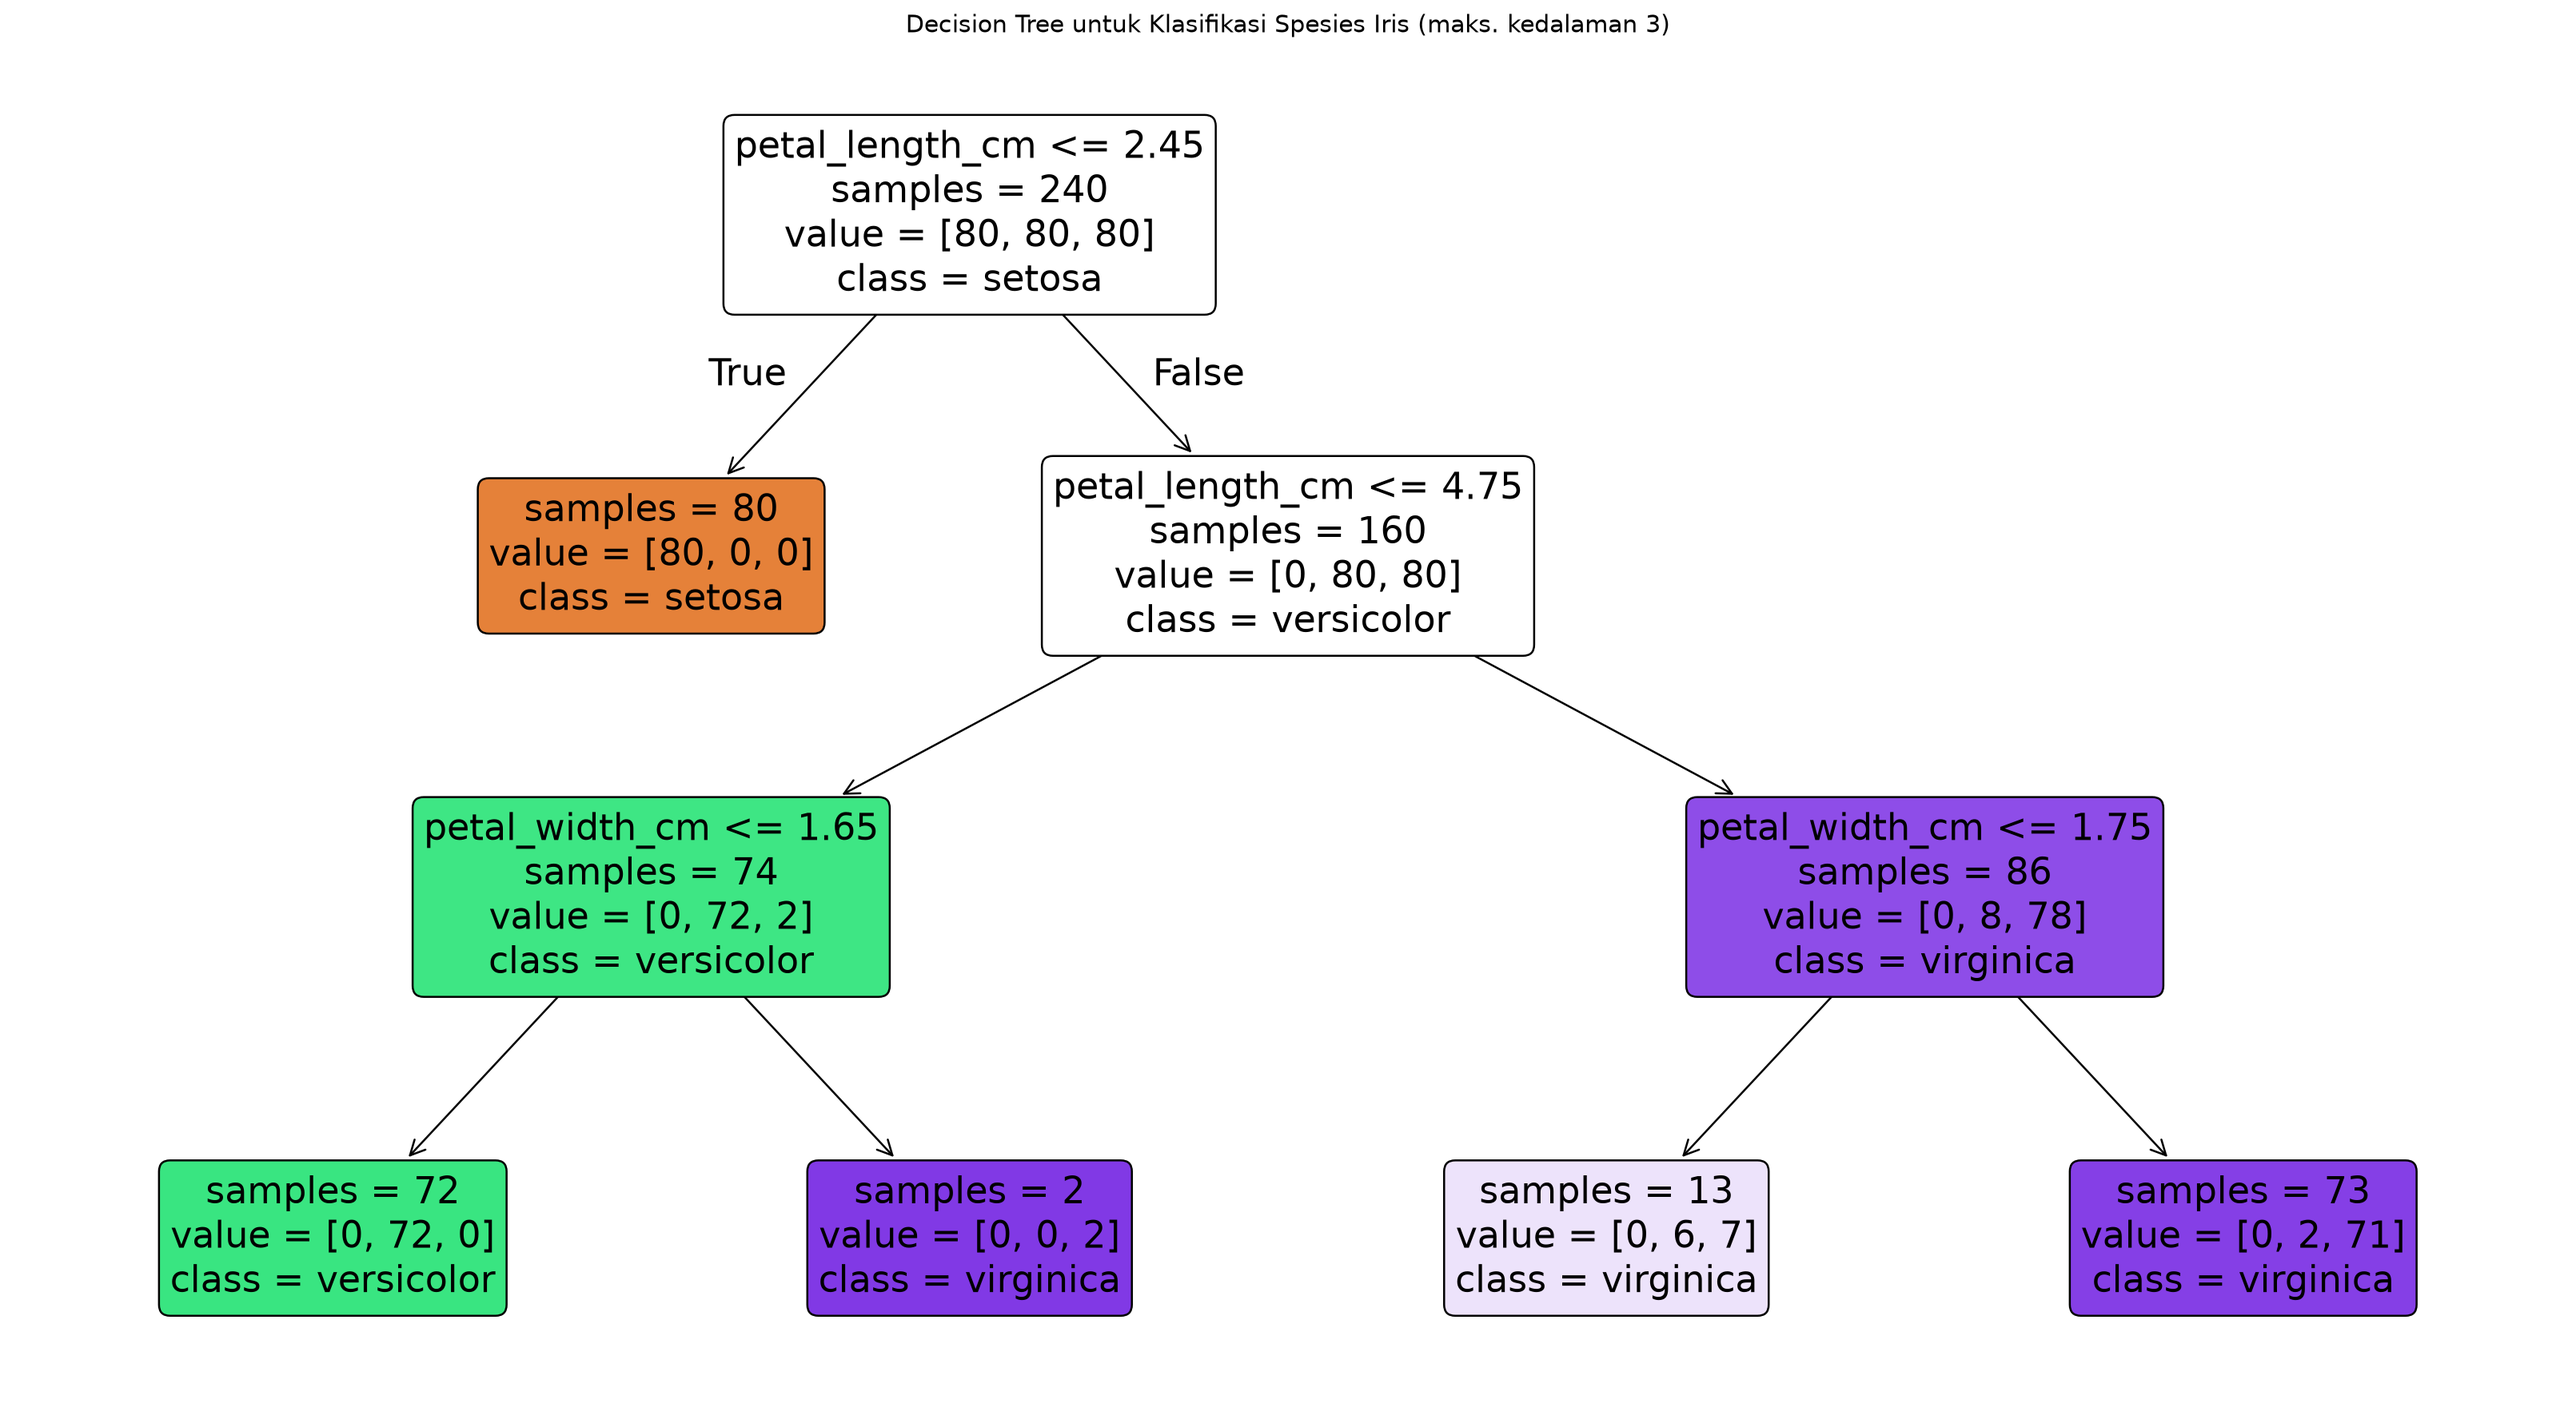
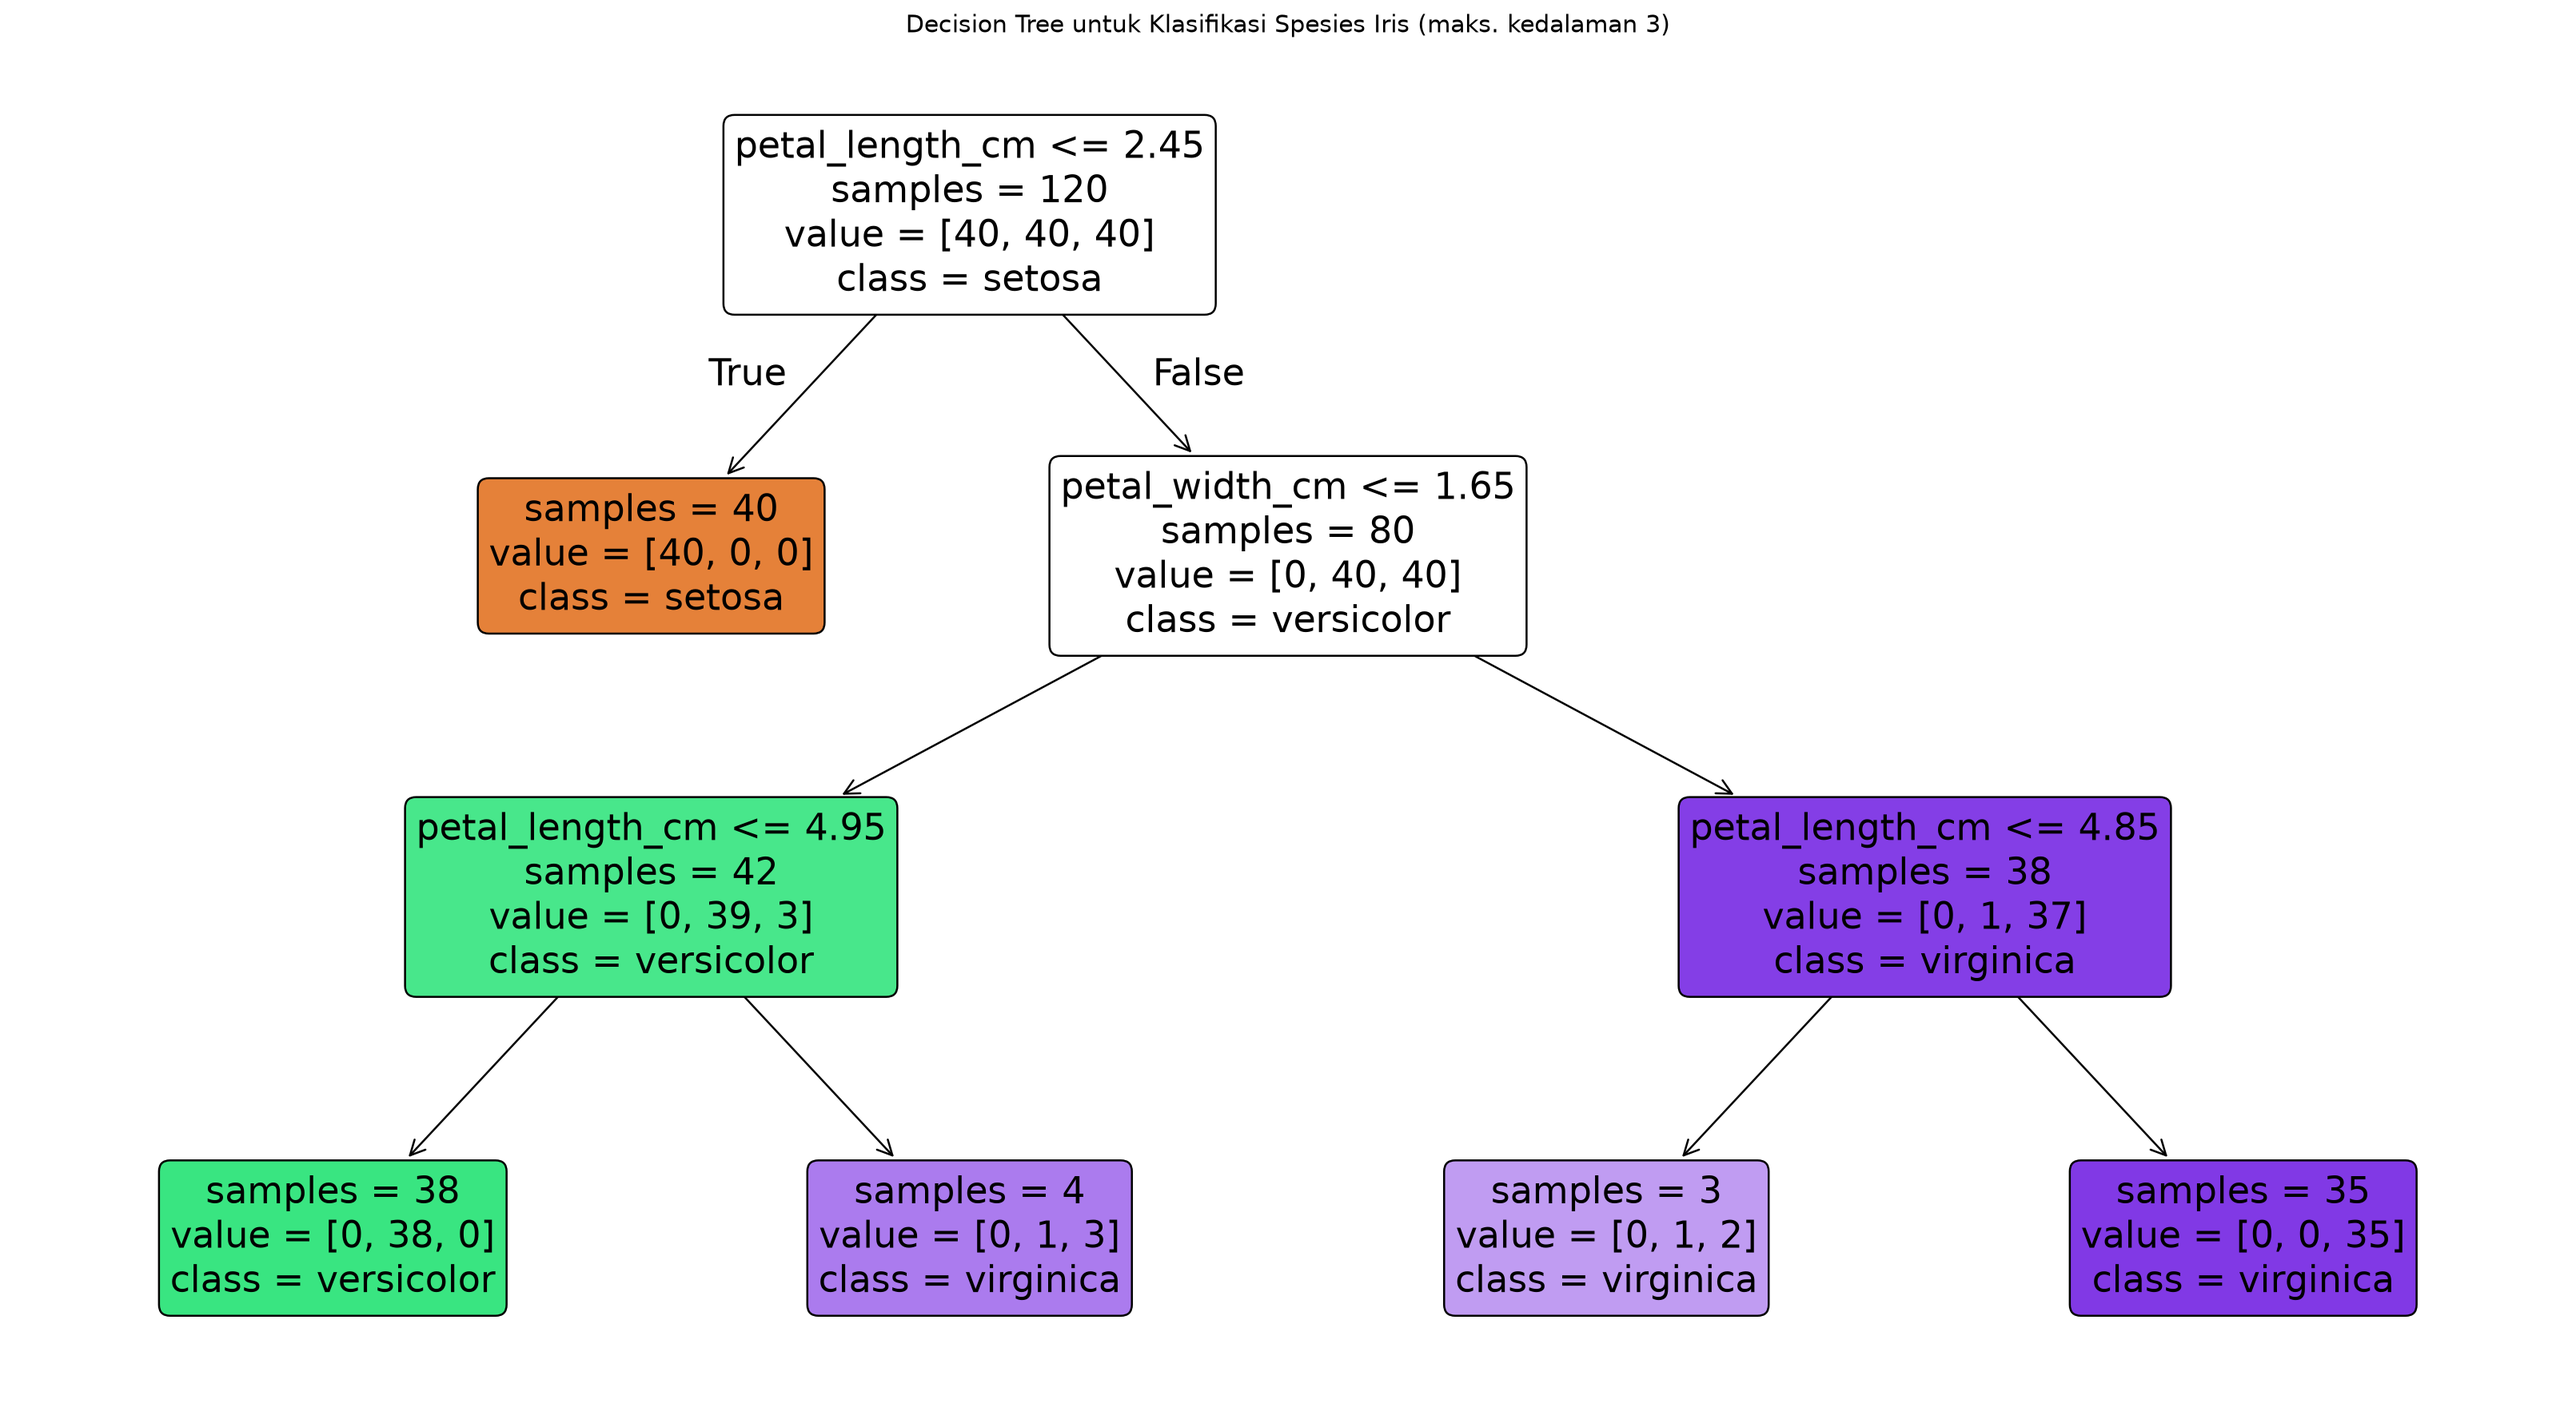
Changes

diff --git a/DatMinPt6.py b/DatMinPt6.py
@@ -9,18 +9,16 @@ import pandas as pd
 from sklearn.tree import DecisionTreeClassifier, plot_tree
 from sklearn.preprocessing import LabelEncoder
 
-# Pandas functions used:
-# pd.read_csv, DataFrame.select_dtypes, DataFrame.isnull, DataFrame.duplicated,
-# DataFrame.value_counts, DataFrame.fillna, DataFrame.astype, Series.eq, Series.sum,
-# DataFrame.groupby, DataFrame.sort_values, DataFrame.head, DataFrame.to_string
-
-
 FOLDER = Path(__file__).resolve().parent
 DATASET_PATH = FOLDER / "Dataset_Pelayanan_Pasien.csv"
 
 
 def main():
     df = pd.read_csv(DATASET_PATH)
+    umur_tahun = pd.to_numeric(
+        df["Umur"].astype("string").str.extract(r"(\d+)\s*thn", expand=False),
+        errors="coerce",
+    )
 
     print("1. RINGKASAN DATASET")
     print(f"Jumlah baris: {len(df)}")
@@ -28,21 +26,26 @@ def main():
     print(df.head().to_string(index=False))
 
     print("\n2. JENIS DATA")
-    numeric_cols = df.select_dtypes(include=[np.number]).columns.tolist()
-    categorical_cols = df.select_dtypes(exclude=[np.number]).columns.tolist()
+    numeric_data = pd.DataFrame({"Umur (tahun)": umur_tahun})
+    numeric_cols = numeric_data.columns.tolist()
+    categorical_cols = sorted(
+        column for column in df.columns if column != "Umur"
+    )
 
     print(f"2.1 Data numerikal ({len(numeric_cols)} kolom):")
     for nomor, col in enumerate(numeric_cols, start=1):
-        print(f"  {nomor}. {col}: {df[col].dtype}")
+        print(f"  {nomor}. {col}: {numeric_data[col].dtype}")
 
     print(f"\n2.2 Data kategorikal ({len(categorical_cols)} kolom):")
     for nomor, col in enumerate(categorical_cols, start=1):
-        print(f"  {nomor}. {col}: {df[col].dtype}")
+        jumlah_kategori = int(df[col].nunique(dropna=True))
+        print(f"  {nomor}. {col}: {jumlah_kategori} nilai unik")
 
     print("\n3. JUMLAH DUPLIKAT, NULL, DAN ZERO")
     duplicate_count = int(df.duplicated().sum())
     null_total = int(df.isnull().sum().sum())
-    zero_total = int(df[numeric_cols].eq(0).sum().sum()) if numeric_cols else 0
+    zero_per_kolom = numeric_data.eq(0).sum().sort_values(ascending=False)
+    zero_total = int(np.count_nonzero(numeric_data.to_numpy() == 0))
 
     print(f"3.1 Jumlah baris duplikat: {duplicate_count}")
     print(f"3.2 Jumlah nilai null: {null_total}")
@@ -50,16 +53,16 @@ def main():
 
     print("\n3.4 Rincian null per kolom:")
     null_per_kolom = df.isnull().sum().sort_values(ascending=False)
+    null_per_kolom = null_per_kolom[null_per_kolom > 0]
     for nomor, (kolom, jumlah) in enumerate(null_per_kolom.items(), start=1):
         print(f"  {nomor}. {kolom}: {jumlah}")
+    if null_per_kolom.empty:
+        print("  Tidak ada nilai null.")
 
     print("\n3.5 Rincian zero per kolom numerikal:")
-    if numeric_cols:
-        zero_detail = df[numeric_cols].eq(0).sum().sort_values(ascending=False)
-        for nomor, (kolom, jumlah) in enumerate(zero_detail.items(), start=1):
-            print(f"  {nomor}. {kolom}: {jumlah}")
-    else:
-        print("  Tidak ada kolom numerikal.")
+    for nomor, (kolom, jumlah) in enumerate(zero_per_kolom.items(), start=1):
+        print(f"  {nomor}. {kolom}: {jumlah}")
+    print("  Catatan: umur 0 tahun berarti usia masih di bawah 1 tahun.")
 
     # Contoh pengkodean kategorikal dengan LabelEncoder dari scikit-learn
     if "Jk" in df.columns:
@@ -69,9 +72,13 @@ def main():
         print(df[["Jk", "Jk_Code"]].head().to_string(index=False))
 
     # Pohon keputusan eksploratif untuk mengklasifikasikan status pasien.
-    kolom_umur = df["Umur"].astype("string").str.extract(r"(\d+)\s*thn")[0]
-    df["Umur_Tahun"] = pd.to_numeric(kolom_umur, errors="coerce")
-    data_pohon = df[["Umur_Tahun", "Jk_Code", "Status Pasien"]].dropna()
+    data_pohon = pd.DataFrame(
+        {
+            "Umur_Tahun": umur_tahun,
+            "Jk_Code": df["Jk_Code"],
+            "Status Pasien": df["Status Pasien"],
+        }
+    ).dropna()
     encoder_status = LabelEncoder()
     target_status = encoder_status.fit_transform(data_pohon["Status Pasien"])
     model_pohon = DecisionTreeClassifier(

diff --git a/Iris.py b/Iris.py
@@ -82,16 +82,68 @@ def muat_dan_bersihkan(path: Path) -> tuple[pd.DataFrame, int]:
     return data, jumlah_dihapus
 
 
+def cetak_ringkasan_kualitas(path: Path) -> None:
+    """Tampilkan klasifikasi kolom dan kualitas data sebelum pembersihan."""
+    data = pd.read_csv(path)
+    kolom_numerikal = data.select_dtypes(include=[np.number]).columns.tolist()
+    kolom_identitas = [
+        kolom
+        for kolom in kolom_numerikal
+        if re.sub(r"[^a-z0-9]", "", str(kolom).lower()) in {"id", "index"}
+    ]
+    kolom_numerikal = sorted(
+        kolom for kolom in kolom_numerikal if kolom not in kolom_identitas
+    )
+    kolom_kategorikal = sorted(
+        data.select_dtypes(exclude=[np.number]).columns.tolist() + kolom_identitas
+    )
+
+    print(f"=== JENIS DATA DAN KUALITAS DATA: {path.name} ===")
+    print(f"Jumlah baris: {len(data)}")
+    print(f"Jumlah kolom: {len(data.columns)}")
+
+    print(f"\nKolom numerikal ({len(kolom_numerikal)}):")
+    for kolom in kolom_numerikal:
+        print(f"  {kolom}: {data[kolom].dtype}")
+
+    print(f"\nKolom kategorikal ({len(kolom_kategorikal)}):")
+    for kolom in kolom_kategorikal:
+        jumlah_unik = int(data[kolom].nunique(dropna=True))
+        print(f"  {kolom}: {data[kolom].dtype}, {jumlah_unik} nilai unik")
+
+    duplikat = int(data.duplicated().sum())
+    jumlah_null = int(data.isna().sum().sum())
+    jumlah_zero_per_kolom = data[kolom_numerikal].eq(0).sum().sort_values(
+        ascending=False
+    )
+    jumlah_zero = int(np.count_nonzero(data[kolom_numerikal].to_numpy() == 0))
+
+    print("\nDuplikat, null, dan zero:")
+    print(f"  Baris duplikat: {duplikat}")
+    print(f"  Nilai null: {jumlah_null}")
+    print(f"  Nilai zero pada kolom numerikal: {jumlah_zero}")
+
+    null_per_kolom = data.isna().sum().sort_values(ascending=False)
+    null_per_kolom = null_per_kolom[null_per_kolom > 0]
+    print("  Rincian null per kolom:")
+    if null_per_kolom.empty:
+        print("    Tidak ada nilai null.")
+    else:
+        for kolom, jumlah in null_per_kolom.items():
+            print(f"    {kolom}: {jumlah}")
+
+    print("  Rincian zero per kolom numerikal:")
+    for kolom, jumlah in jumlah_zero_per_kolom.items():
+        print(f"    {kolom}: {int(jumlah)}")
+
+
 # 1. LOADING DATA
-file_dataset = cari_file("Iris_dataset.csv")
 file_iris = cari_file("Iris.csv")
 print("=== PEMUATAN DATA ===")
+cetak_ringkasan_kualitas(file_iris)
 
 data_sumber = []
-for nama_sumber, path in [
-    ("Iris_dataset.csv", file_dataset),
-    ("Iris.csv", file_iris),
-]:
+for nama_sumber, path in [("Iris.csv", file_iris)]:
     data, jumlah_dihapus = muat_dan_bersihkan(path)
     data["sumber"] = nama_sumber
     data_sumber.append(data)
@@ -102,7 +154,7 @@ for nama_sumber, path in [
 
 # Gabungkan kedua file; catatan pengukuran berulang tetap dipertahankan.
 df = pd.concat(data_sumber, ignore_index=True)
-print(f"Jumlah data gabungan: {len(df)} baris\n")
+print(f"Jumlah data dianalisis: {len(df)} baris\n")
 
 # 2. COLLECTING / RINGKASAN DATA
 jumlah_spesies = df["species"].value_counts().sort_index()
